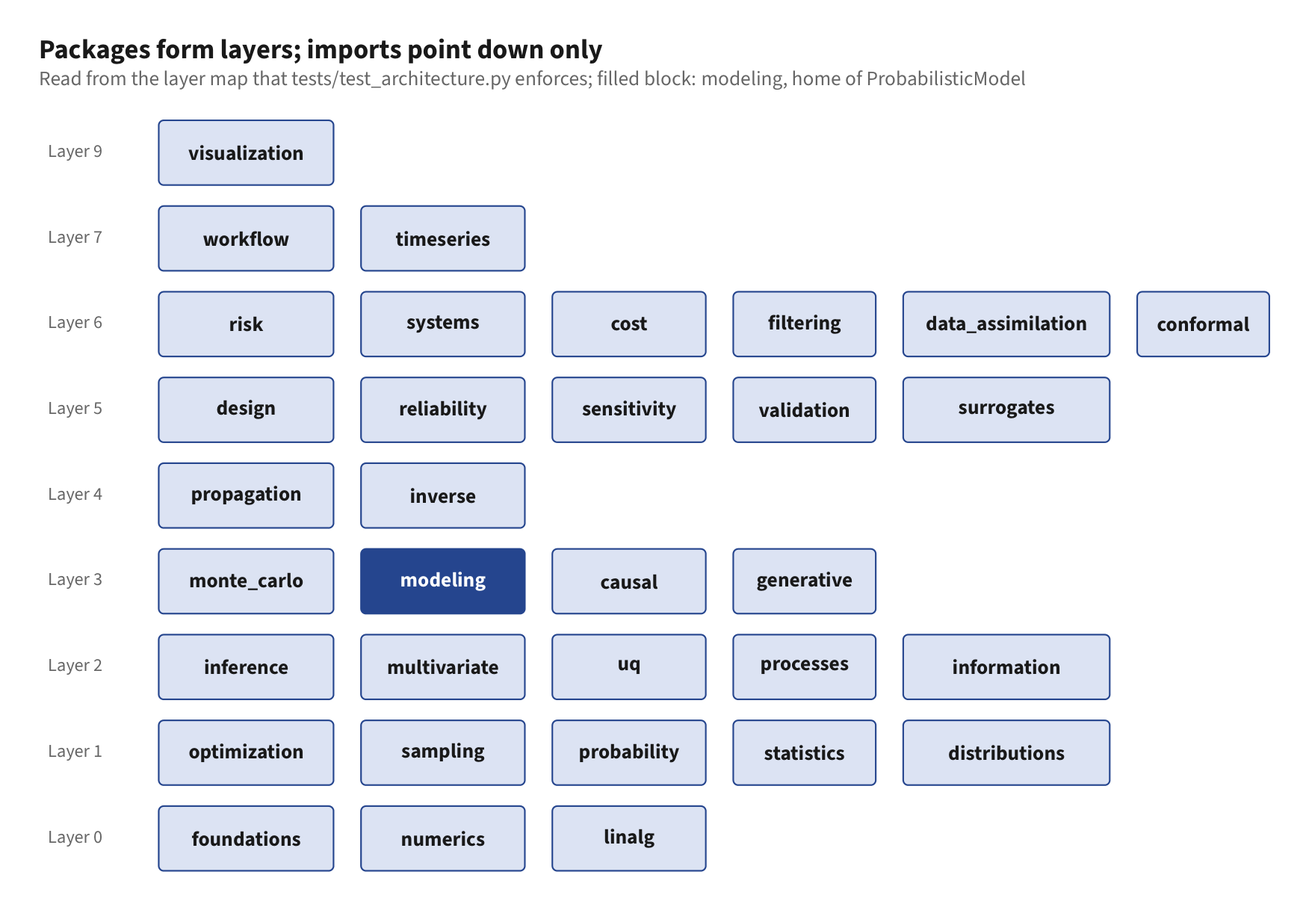
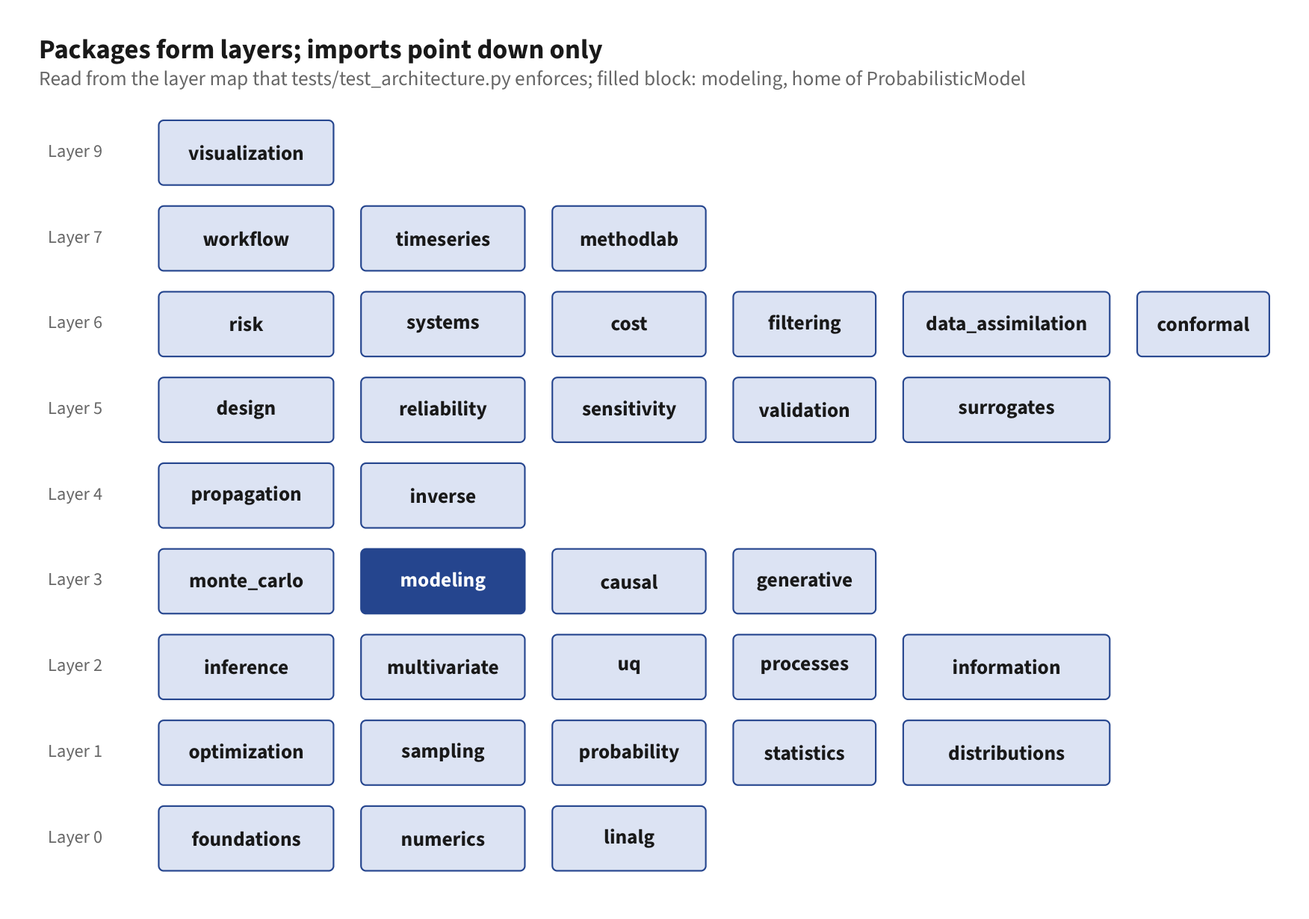
docs: correct stale statements in guides, architecture, ADRs and README; record the batch evaluation contract
Scope the old not-implemented statements to the packages they describe,
list the same-layer imports found by an import scan, add cost to the
architecture tables, record the batch contract in the changelog, roadmap
and README, redraw the layer map with methodlab, and rebuild the one guide
figure that had not been through the datawiz audit.

Changed region(s): [[0.4007, 0.2163, 0.5548, 0.3089]]

diff --git a/src/probstat/probability/finite.py b/src/probstat/probability/finite.py
@@ -735,9 +735,10 @@ class FiniteProbabilityMeasure(Generic[OutcomeT]):
     def expectation(self, value: Callable[[OutcomeT], float]) -> float:
         """Return the expectation of a finite real-valued outcome function.
 
-        This bridge treats ``value`` as a finite random variable without yet
-        introducing a separate random-variable object. A dedicated abstraction
-        is planned for the next probability-foundation round.
+        This method treats ``value`` as a finite random variable without
+        introducing a separate random-variable object. The dedicated
+        abstraction is
+        :class:`probstat.probability.random_variables.FiniteRandomVariable`.
 
         Args:
             value: Function mapping every outcome to a finite real number.

diff --git a/src/probstat/workflow/__init__.py b/src/probstat/workflow/__init__.py
@@ -1,8 +1,9 @@
 """Integrated studies: UQ on one probabilistic model, and mission assessment.
 
-:class:`UQStudy` runs every UQ stage on one :class:`ProbabilisticModel`;
-:class:`MissionAssessment` combines exact system reliability, epistemic
-uncertainty, cost, and risk for a mission system.
+:class:`UQStudy` runs every UQ stage on one
+:class:`~probstat.modeling.ProbabilisticModel`; :class:`MissionAssessment`
+combines exact system reliability, epistemic uncertainty, cost, and risk for a
+mission system.
 
 Main entry points:
     ``UQStudy``: every UQ stage (propagation, sensitivity, reliability,

diff --git a/src/probstat/foundations/__init__.py b/src/probstat/foundations/__init__.py
@@ -2,7 +2,8 @@
 
 Every other package builds on these primitives: argument validators, the
 structural protocols that distribution and law objects satisfy, the
-SplitMix64 seed tree behind every ``seed=`` argument, and the stability
+SplitMix64 seed tree behind the ``seed=`` arguments that accept a
+``RandomStream``, and the stability
 labels of the public API.
 
 Main entry points:

diff --git a/README.md b/README.md
@@ -88,7 +88,7 @@ one at the precision shown.
 | Decisions | 120+ decision records in [`docs/adr/`](https://github.com/ayberkdt/Stats-Lab/tree/main/docs/adr), each with its verification evidence | [contribution contract](https://github.com/ayberkdt/Stats-Lab/blob/main/CONTRIBUTING.md) |
 | Documentation | 60+ Markdown files whose Python examples run, with quoted values compared | [`tests/test_documentation_examples.py`](https://github.com/ayberkdt/Stats-Lab/blob/main/tests/test_documentation_examples.py) |
 | Properties | 80+ property-based and metamorphic tests, drawing random valid parameters for every distribution family | [`tests/_properties.py`](https://github.com/ayberkdt/Stats-Lab/blob/main/tests/_properties.py) |
-| Figures | text of at least 9 pt inside the canvas; WCAG AA contrast of 4.5:1 for text and 3:1 for marks; 108 guide figures in two palettes, 107 of them passed through the datawiz audit (the newest was built where datawiz is not installed and awaits it), with captions that quote the numbers of the build | [canvas](https://github.com/ayberkdt/Stats-Lab/blob/main/tests/test_figure_canvas.py), [contrast](https://github.com/ayberkdt/Stats-Lab/blob/main/tests/test_visualization_accessibility.py), and [guide-figure](https://github.com/ayberkdt/Stats-Lab/blob/main/tests/test_guide_figures.py) tests |
+| Figures | text of at least 9 pt inside the canvas; WCAG AA contrast of 4.5:1 for text and 3:1 for marks; 108 guide figures in two palettes, all passed through the datawiz audit, with captions that quote the numbers of the build | [canvas](https://github.com/ayberkdt/Stats-Lab/blob/main/tests/test_figure_canvas.py), [contrast](https://github.com/ayberkdt/Stats-Lab/blob/main/tests/test_visualization_accessibility.py), and [guide-figure](https://github.com/ayberkdt/Stats-Lab/blob/main/tests/test_guide_figures.py) tests |
 | Agreement with R | 155 cases checked against R 4.6.2 (stats, MASS, nlme, survival, fitdistrplus, ismev, e1071): distribution functions, classical tests, lm/glm/nls/lme, survival, time series, fits; each with the exact R call and a justified tolerance | [`tests/test_r_parity.py`](https://github.com/ayberkdt/Stats-Lab/blob/main/tests/test_r_parity.py), regenerated by [`tools/r_oracles/parity.R`](https://github.com/ayberkdt/Stats-Lab/blob/main/tools/r_oracles/parity.R) |
 | Packaging | the built wheel passes `twine check --strict`, installs in a clean environment, and passes a smoke test | [`tools/smoke_test_wheel.py`](https://github.com/ayberkdt/Stats-Lab/blob/main/tools/smoke_test_wheel.py) |
 
@@ -178,7 +178,7 @@ round(fit.degrees_of_freedom[0], 3)                           # 5.0, Satterthwai
 
 | Question | Tools (`probstat.inference` unless noted) |
 |---|---|
-| Which law for an uncertain input? | Expert bounds and moments only: `maximum_entropy` (`probstat.distributions`); some data: `fit_distribution` (likelihood) and `fit_distribution_moments` (moments, matching R's fitdistrplus), Kolmogorov-Smirnov and Anderson-Darling tests with p-values, `bootstrap_goodness_of_fit` when parameters were fitted, `parameter_uncertainty_band`; many data: `select_kde_bandwidth` (leave-one-out, UCV, BCV) and `gaussian_kde_multivariate` (`probstat.statistics`) |
+| Which law for an uncertain input? | Expert bounds and moments only: `maximum_entropy` (`probstat.distributions`); some data: `fit_distribution` (likelihood) and `fit_distribution_moments` (moments, matching R's fitdistrplus), Kolmogorov-Smirnov and Anderson-Darling tests with p-values, `bootstrap_goodness_of_fit` when parameters were fitted, `parameter_uncertainty_band`; many data: `select_kde_bandwidth` (leave-one-out, UCV, BCV) and `gaussian_kde_multivariate` (both in `probstat.statistics`) |
 | Is there an effect, and how sure are we? | t, Welch, paired, sign, Wilcoxon, Mann-Whitney, Fisher exact, permutation tests; bootstrap with BCa intervals; `adjust_p_values` (Holm, Benjamini-Hochberg) |
 | Do groups differ? | Tukey HSD on the exact studentized range, Kruskal-Wallis (exact for small designs), Friedman, Cochran's Q, Dunn; Levene, Brown-Forsythe, Bartlett; Shapiro-Wilk |
 | How does a response depend on predictors? | `fit_linear_model`, `fit_glm` (Gaussian, binomial with logit or probit link, Poisson, Gamma), ridge and cross-validated elastic net, `fit_robust_linear_model` (Huber, biweight), `theil_sen_slope`, exact `fit_quantile_regression` |
@@ -303,29 +303,27 @@ confidence, a credibility statement.
 
 ## What's inside: 34 packages in 9 dependency layers
 
-<picture><source media="(prefers-color-scheme: dark)" srcset="https://raw.githubusercontent.com/ayberkdt/Stats-Lab/main/docs/images/readme-package-layers-dark.png"><img alt="Package layer map: visualization on top; workflow and timeseries; risk, systems, cost, filtering, data_assimilation, conformal; design, reliability, sensitivity, validation, surrogates; propagation, inverse; monte_carlo, modeling, causal, generative; inference, multivariate, uq, processes, information; optimization, sampling, probability, statistics, distributions; foundations, numerics, linalg at the bottom." src="https://raw.githubusercontent.com/ayberkdt/Stats-Lab/main/docs/images/readme-package-layers.png"></picture>
+<picture><source media="(prefers-color-scheme: dark)" srcset="https://raw.githubusercontent.com/ayberkdt/Stats-Lab/main/docs/images/readme-package-layers-dark.png"><img alt="Package layer map: visualization on top; workflow, timeseries, and methodlab; risk, systems, cost, filtering, data_assimilation, conformal; design, reliability, sensitivity, validation, surrogates; propagation, inverse; monte_carlo, modeling, causal, generative; inference, multivariate, uq, processes, information; optimization, sampling, probability, statistics, distributions; foundations, numerics, linalg at the bottom." src="https://raw.githubusercontent.com/ayberkdt/Stats-Lab/main/docs/images/readme-package-layers.png"></picture>
 
 A package imports only from its own layer or a lower one, and the
 architecture test rejects every upward import and import cycle. The diagram
 is generated from that test's layer map by
 [`tools/build_readme_figures.py`](https://github.com/ayberkdt/Stats-Lab/blob/main/tools/build_readme_figures.py).
-`methodlab`, added in 0.27 on the layer of `workflow`, is recorded in the
-layer map but not yet drawn: the image is from the previous build.
 34 packages and 2,434 public names, all documented in the
 [API reference](https://github.com/ayberkdt/Stats-Lab/blob/main/docs/api-reference.md).
 
 | Area | Packages | Highlights |
 |---|---|---|
 | Central model and forward | `modeling`, `propagation`, `sampling`, `monte_carlo`, `sensitivity`, `surrogates` | Gaussian, Student-t, Clayton, Gumbel, and Frank copulas, C- and D-vine copulas with sequential fitting, discrete and interval (epistemic) inputs, random fields; nested aleatory-epistemic propagation and p-boxes; Sobol (to 1,024 dimensions, Owen scrambling), Halton, maximin and Iman-Conover LHS; zero-variance control variates, control functionals, and kernel Stein discrepancy; Sobol (six estimators, including stochastic simulators), Shapley, Morris, DGSM, Taylor importance factors, regression (SRC, PRCC) and HSIC indices; polynomial chaos (sparse by LAR or OMP), Gaussian processes, universal kriging, PC-Kriging, and deep ensembles |
-| Reliability and risk | `reliability`, `risk`, `systems` | FORM/SORM, multiple design points, importance, subset (modified Metropolis, aCS, and HMC kernels), line and directional sampling, moving particles, AK-MCS (U, EFF, H) and AK-SS, Wilks bounds and Monte Carlo certification; exact system reliability on BDDs with sifting, dynamic fault trees (PAND, SPARE, FDEP, SEQ), CCF with epistemic parameters, phased missions, Markov and semi-Markov availability; VaR/CVaR, fault and event trees, fragility, GEV/GPD return levels, risk registers, FMECA, value of information |
+| Reliability and risk | `reliability`, `risk`, `systems` | FORM/SORM, multiple design points, importance, subset (modified Metropolis, aCS, and HMC kernels), line and directional sampling, moving particles, AK-MCS (U, EFF, H) and AK-SS, Wilks bounds and Monte Carlo certification; exact system reliability on BDDs with sifting, dynamic fault trees (PAND, SPARE, FDEP, SEQ), CCF with epistemic parameters, phased missions, Markov and semi-Markov availability; VaR/CVaR, fault and event trees, fragility, GEV/GPD return levels, risk registers, FMECA, value of information, Beta-Bernoulli and linear Thompson-sampling bandits |
 | Method development | `methodlab` | Estimator combinators with a derivation lineage (randomized truncation, thinning, extrapolation, best linear unbiased combination, control variates, bias corrections, influence functions), certification checks with scoped verdicts and method cards, pre-specified ADEMP simulation studies with a protocol fingerprint, efficiency ranking, sequential halving, anytime-valid comparison |
 | Cost | `cost` | Discounting, life-cycle cost models, cost-risk S-curves and JCL, learning curves, maintenance optimisation, spares, cost of unreliability |
 | Backward and validation | `inverse`, `inference`, `validation` | Nonlinear calibration, model discrepancy, adaptive Metropolis, HMC/NUTS, ADVI, a probabilistic-programming interface with reverse-mode gradients, structured (simplex, correlation, covariance) latent sites, marginalized discrete sites, Markov-chain elimination, and dynamic structure, amortized posteriors; stacking and pseudo-BMA model weights; area metric, ASME V&V 20, CRPS and proper scores, PIT, distribution-shift tests |
-| Statistical modelling | `inference`, `timeseries`, `conformal` | Regression and GLMs, regularization, hierarchical models, EM and mixtures, missing data and multiple imputation, ARIMA, survival, conformal prediction (split and adaptive under shift), Thompson-sampling bandits |
+| Statistical modelling | `inference`, `timeseries`, `conformal` | Regression and GLMs, regularization, hierarchical models, EM and mixtures, missing data and multiple imputation, ARIMA, survival, conformal prediction (split and adaptive under shift) |
 | Generative models | `generative` | Planar, radial, and affine-coupling normalizing flows; energy-based models by score matching; Langevin (ULA, MALA) sampling; normalizing-constant and KL diagnostics |
 | Decisions | `causal`, `design` | Back-door and front-door identification, IPW/AIPW, E-values; D-optimal and Bayesian experimental design |
 | Probability and statistics | `probability`, `distributions`, `statistics`, `multivariate`, `processes`, `information` | 29 distribution families plus affine, truncated, mixture, and empirical wrappers and maximum-entropy laws built from moment constraints; Dirichlet, multinomial, Dirichlet-multinomial, multivariate Student-t, Wishart, and inverse-Wishart laws with conjugate updates; LKJ correlation laws; finite measure spaces, Radon-Nikodym derivatives, conditional expectation, and completeness checks; calibrated goodness of fit and count models with five historical real-data case studies; tests and bootstrap, kernel density, streaming summaries, limit theorems, contingency tables, stochastic and semi-Markov processes, score-based diffusion and neural SDEs, entropy, optimal transport |
-| Foundations and dynamics | `foundations`, `linalg`, `optimization`, `numerics`, `filtering`, `data_assimilation`, `uq`, `workflow`, `visualization` | Dense linear algebra, optimizers with bounds and multi-start, forward- and reverse-mode automatic differentiation, adaptive quadrature; an optional NumPy dense backend; a multiple-precision reference backend and performance profiles; Kalman, particle, and ensemble filters; the `UQStudy` workflow and the accessible themed figure library |
+| Foundations and dynamics | `foundations`, `linalg`, `optimization`, `numerics`, `filtering`, `data_assimilation`, `uq`, `workflow`, `visualization` | Dense linear algebra, optimizers with bounds and multi-start, forward- and reverse-mode automatic differentiation, adaptive quadrature; an optional NumPy dense backend; a multiple-precision reference backend and performance profiles; Kalman, particle, and ensemble filters; the `UQStudy` workflow and the accessible themed figure library; a batch evaluation contract (`EvaluationRequest`, `run_procedure`, `AskTellSession`) that lets an adaptive algorithm request whole batches of points from a simulator it does not own |
 
 The [ATHENS 2026 coverage matrix](https://github.com/ayberkdt/Stats-Lab/blob/main/docs/curriculum/athens-2026-coverage.md)
 tracks all 110 topics of the ATHENS 2026 VV-UQ course; all 110 are

diff --git a/docs/architecture.md b/docs/architecture.md
@@ -15,30 +15,32 @@ cycles.
 | 3 | `monte_carlo`, `modeling`, `causal`, `generative` | estimators and work accounting; **the central `ProbabilisticModel`**; causal graphs and effect estimation; normalizing flows and energy-based models |
 | 4 | `propagation`, `inverse` | forward propagation; calibration (with model discrepancy) and posterior prediction |
 | 5 | `reliability`, `sensitivity`, `surrogates`, `validation`, `design` | failure probability, sensitivity indices, emulators, validation evidence, experimental design |
-| 6 | `risk`, `systems`, `filtering`, `data_assimilation`, `conformal` | risk measures, extremes, and decision analysis; exact system reliability on BDDs; sequential state estimation; conformal prediction |
+| 6 | `risk`, `systems`, `cost`, `filtering`, `data_assimilation`, `conformal` | risk measures, extremes, and decision analysis; exact system reliability on BDDs; life-cycle cost, cost-risk and schedule-risk analysis; sequential state estimation; conformal prediction |
 | 7 | `workflow`, `timeseries`, `methodlab` | `UQStudy`: every analysis on one model, one seed tree, one report; ARIMA models on the Kalman filter; estimator combinators, certification checks, and pre-specified simulation studies |
 | 9 | `visualization` | optional themed figures (Matplotlib) |
 
 ```text
-                         visualization (9)
-                               |
-                          workflow (7)
-              _________________|__________________
-             |                 |                  |
-          risk (6)      filtering (6)   data_assimilation (6)
-             |
-   reliability · sensitivity · surrogates · validation   (5)
-             |                                  |
-       propagation (4) ----------------- inverse (4)
-             |                                  |
-          modeling (3)  <-- the central model  -+--- monte_carlo (3)
-             |
-   inference · multivariate · uq                  (2)
-             |
-   probability · statistics · distributions · optimization · sampling   (1)
-             |
-   foundations · numerics · linalg               (0)
+   (9)  visualization
+         |
+   (7)  workflow · timeseries · methodlab
+         |
+   (6)  risk · systems · cost · filtering · data_assimilation · conformal
+         |
+   (5)  reliability · sensitivity · surrogates · validation · design
+         |
+   (4)  propagation · inverse
+         |
+   (3)  modeling (the central model) · monte_carlo · causal · generative
+         |
+   (2)  inference · multivariate · uq · processes · information
+         |
+   (1)  probability · statistics · distributions · optimization · sampling
+         |
+   (0)  foundations · numerics · linalg
 ```
+
+The diagram lists every package once, on its layer; the arrows mean "may
+import from", not "imports from". Layer 8 is unused.
 
 `probstat.__init__` exposes version metadata only. This keeps domain ownership
 visible and avoids a root import hub that could become a cycle.
@@ -81,7 +83,7 @@ Carlo, LHS, Halton, Sobol). See ADR-0014 and
 | `distributions` | Distribution objects, special functions, sampling | Rendering |
 | `inference` | Estimation, tests, regression and GLMs, smoothing and additive models, multivariate analysis and clustering, survival, EM and mixtures, hierarchical models, MCMC/HMC/NUTS, ADVI, Laplace | Forward-model semantics |
 | `multivariate` | Vector-valued distributions | Inference workflows |
-| `uq` | QoI and forward-model contracts, numerical verification | Monte Carlo, reliability, inference |
+| `uq` | QoI and forward-model contracts, numerical verification, uncertainty budgets (including the Monte Carlo budgets `monte_carlo_budget` and `adaptive_monte_carlo_budget`, ADR-0133) | The general estimators and variance reduction of `monte_carlo`, reliability, inference |
 | `processes` | Markov chains, Poisson processes, SDEs, random fields | Filtering or inference |
 | `information` | Entropy, divergences, mutual information and their estimators, optimal transport, Fisher information geometry | Hypothesis tests |
 | `monte_carlo` | Sample estimators, variance reduction, work accounting | Forward-model semantics |
@@ -97,6 +99,7 @@ Carlo, LHS, Halton, Sobol). See ADR-0014 and
 | `design` | Optimal and Bayesian experimental design | Calibration itself |
 | `risk` | Risk measures, losses, fault/event trees, fragility, extremes, decisions | Reliability algorithms |
 | `systems` | Structure functions on BDDs, cut sets, importance, CCF, component time models, MTTF, phased missions | Sampling-based reliability; nothing in `risk` imports it |
+| `cost` | Discounting, life-cycle cost models, cost-risk S-curves, schedule-risk networks, joint cost-schedule confidence | Risk measures and decision analysis (`risk`) |
 | `conformal` | Distribution-free prediction intervals and coverage reports | Model fitting |
 | `filtering`, `data_assimilation` | State-space models, Kalman/EKF/UKF, particle filter, EnKF, 3D-Var | Plotting |
 | `workflow` | Orchestration, stage records, reports | New numerical methods |
@@ -111,12 +114,33 @@ survival, quantile, inverse-survival, and hazard are narrow capabilities that a
 type implements only when they are mathematically defined and numerically
 supported.
 
-Sibling packages in one layer may import each other only when that does not
-create a cycle and an ADR justifies it; the default is that they do not. The one
-justified case so far: `reliability.active_learning` (AK-MCS), and with it
-`reliability.ak_subset` (AK-SS) and `reliability.population_posterior`, import
-`surrogates` for their Gaussian-process limit state (ADR-0041); `surrogates`
-must therefore never import `reliability`.
+The architecture test enforces two things: no import points to a higher
+layer, and the module graph has no cycle. It reads absolute `probstat`
+imports. It has no allow-list, so a sibling import inside one layer passes as
+long as it stays acyclic; the default is still that siblings do not import
+each other, and a decision record should say why when they do.
+
+A scan of the import statements finds these same-layer imports between
+packages (importer to imported):
+
+- layer 0: `linalg` and `numerics` import the validation helpers of
+  `foundations`;
+- layer 1: `distributions` to `optimization`, `probability` to
+  `distributions`, `sampling` to `distributions`, `statistics` to
+  `distributions` and to `optimization`;
+- layer 2: `inference` to `information` and to `multivariate`;
+- layer 5: `reliability` to `surrogates` (the Gaussian-process limit state of
+  `active_learning`, `ak_subset` and `population_posterior`, ADR-0041) and
+  `design` to `surrogates` (`design.bayesian_optimization`, ADR-0125 item 8);
+  `surrogates` must therefore never import `reliability` or `design`;
+- layer 6: `cost` to `risk` (listed among the imports of ADR-0143) and
+  `systems` to `risk` (`from_fault_tree`, ADR-0060; `risk` never imports
+  `systems`).
+
+ADR-0127 records the `statistics` to `optimization` import. The others have no
+dedicated record. In particular ADR-0020 states the intent that
+`distributions` should not couple to `optimization`, while
+`distributions.maximum_entropy` imports it today.
 Cross-cutting code moves down only when it is truly domain-independent.
 
 ## Module layout

diff --git a/docs/foundations/advanced-monte-carlo.md b/docs/foundations/advanced-monte-carlo.md
@@ -112,8 +112,12 @@ experiment contrasts raw-indicator and conditional Monte Carlo estimators.
 - Confidence intervals are large-sample normal approximations.
 - Automatic control fitting uses the same sample and reports a plug-in error.
 - Stratification is presently one-dimensional with equal-width strata.
-- Importance sampling is ordinary rather than self-normalized; adaptive and
-  multiple importance sampling are not yet implemented.
+- Importance sampling in `probstat.monte_carlo` is ordinary rather than
+  self-normalized, and its scalar estimators have no adaptive or multiple
+  importance sampling. The adaptive and mixture proposals live in
+  `probstat.reliability` (`cross_entropy_importance_sampling`,
+  `improved_cross_entropy`, `sequential_importance_sampling`,
+  `mixture_importance_sampling`).
 - These scalar estimators draw plain pseudo-random points. Latin hypercube
   and randomized quasi-Monte Carlo designs live in `probstat.sampling` and
   are used through `propagation.propagate` (with `replicates=` for honest
@@ -122,8 +126,10 @@ experiment contrasts raw-indicator and conditional Monte Carlo estimators.
   Multilevel Monte Carlo and Stein control variates and control functionals
   are covered in the sections below.
 
-The next ATHENS slice builds reliability and rare-event analysis on these
-auditable probability, cost, and importance-weight foundations.
+Reliability and rare-event analysis are built on these auditable probability,
+cost, and importance-weight foundations in `probstat.reliability`; see the
+[reliability guide](reliability-analysis.md) and the
+[advanced reliability guide](advanced-reliability.md).
 
 ## Sources
 
@@ -216,7 +222,11 @@ seed=1)` (the sampler is `GeometricBrownianMotion` in
   random; Giles' flooring of `m_l` and `V_l` (at half the value extrapolated
   from level `l - 1`) is applied to keep it stable.
 - Cost is the user's model `c(l)`, not wall-clock time.
-- Multi-index MC, randomized (unbiased) MLMC, and MLQMC are not implemented.
+- `probstat.monte_carlo` does not implement multi-index MC, randomized
+  (unbiased) MLMC, or MLQMC. The generic randomized-truncation estimators of
+  `probstat.methodlab` (`single_term_estimator`, `coupled_sum_estimator`)
+  build unbiased estimators from a sequence of coupled approximations; the
+  [method-development guide](method-development.md) describes them.
 
 Sources: [REF-GILES-2008], [REF-GILES-2015].
 

diff --git a/CHANGELOG.md b/CHANGELOG.md
@@ -9,12 +9,25 @@ Uncertainty analysis for system design. The methods of earlier releases
 answer "what is the distribution of the output"; a design review asks
 "which error sources make up the budget, what is the margin and with what
 confidence, and how far can the model be trusted". Eight additions state
-the results in those terms. Each records in its decision record which
+the results in those terms, and a ninth defines how an algorithm asks for
+evaluations of a model it does not own. Each records in its decision record which
 sources were opened and which were confirmed bibliographically only, with
 the mathematics re-derived.
 
 ### Added
 
+- **Batch evaluation contract** (`probstat.foundations`, ADR-0132): an
+  algorithm written as a procedure yields an `EvaluationRequest` (many points
+  and the label of the model that must evaluate them) and receives the
+  outputs in the same order. `run_procedure` drives it with one batch
+  callable per label, `AskTellSession` drives it by hand when the batch is
+  evaluated outside the Python process, and `batch_from_pointwise` wraps an
+  ordinary function of one point; `scalar_outputs` and `vector_outputs` check
+  duck-typed outputs, so a NumPy array is accepted without importing NumPy.
+  The three routes give identical results. Two procedures use it so far,
+  `adaptive_monte_carlo_budget_procedure` and
+  `propagate_gaussian_mixture_procedure`; there is no batch form of the
+  rare-event estimators or the pick-freeze designs.
 - **Uncertainty budgets** (`probstat.uq`, ADR-0133): `BudgetEntry` with
   Type A and Type B evaluations, `UncertaintyBudget` with the law of
   propagation including correlation, Welch-Satterthwaite degrees of freedom
@@ -74,6 +87,13 @@ the mathematics re-derived.
   estimate with its merge bias shown, `simulate_schedule` with correlated
   durations, risk events, criticality and cruciality, and
   `joint_cost_schedule_confidence` with the iso-confidence frontier.
+
+### Changed
+
+- The guide-figure audit is complete: all 108 figures have passed through the
+  datawiz audit. `methodlab-thinning-efficiency`, built in 0.27.0 where
+  datawiz was not installed, was rebuilt and audited; the README no longer
+  states an open item.
 
 ### Known limitations
 

diff --git a/docs/adr/ADR-0132-batch-evaluation-contract.md b/docs/adr/ADR-0132-batch-evaluation-contract.md
@@ -45,9 +45,11 @@ implementations of each method that must agree.
    runtime rule is unchanged. Non-finite outputs are passed through: what a
    failed run means is the algorithm's decision.
 4. **Placement.** The module lives in `foundations` (layer 0) because
-   `monte_carlo`, `reliability`, `sensitivity` and `propagation` all need
-   it. `foundations` is labelled stable; the batch names are new in 0.28 and
-   follow the deprecation policy of ADR-0048 from this release on.
+   packages on several layers are meant to use it, and a lower layer cannot
+   import a higher one. Its users today are `probstat.uq` and
+   `probstat.filtering`. `foundations` is labelled stable; the batch names
+   are new after 0.27.0 (unreleased) and follow the deprecation policy of
+   ADR-0048 from the release that ships them.
 5. **Rule for new code.** A new algorithm that evaluates a model adaptively
    is written as `<name>_procedure` plus a thin `<name>` wrapper around
    `run_procedure`, issues the largest requests its mathematics permits
@@ -62,10 +64,13 @@ implementations of each method that must agree.
   scheduler through `AskTellSession`.
 - The transport adds a Python-level cost per request, not per point; it is
   negligible next to any simulator worth batching.
-- The 0.27 pointwise algorithms are not rewritten. Batch counterparts are
-  added next to them (ADR-0134 for rare events, ADR-0137 for pick-freeze
-  designs, ADR-0138 for sigma-point propagation); the pointwise functions
-  remain the reference in their tests.
+- The 0.27 pointwise algorithms are not rewritten; the pointwise functions
+  remain the reference in their tests. Two procedures are written against
+  the contract so far: `probstat.uq.adaptive_monte_carlo_budget_procedure`
+  (ADR-0133) and `probstat.filtering.propagate_gaussian_mixture_procedure`
+  (ADR-0140). There is no batch form of the rare-event estimators
+  (`probstat.reliability`) or of the pick-freeze designs
+  (`probstat.sensitivity`); both are not implemented.
 - A generator can be driven only once. A procedure function must be called
   again for a second run; the wrappers do this.
 - The contract says nothing about failures of individual evaluations,

diff --git a/docs/foundations/inverse-problems-and-calibration.md b/docs/foundations/inverse-problems-and-calibration.md
@@ -110,12 +110,12 @@ future-observation bands without hiding their distinct meanings.
 
 ## 8. Scope and next extensions
 
-This release assumes a linear response, a proper positive-definite Gaussian
-prior, known homoscedastic Gaussian noise, and additive independent discrepancy.
-Future work includes unknown variance, nonlinear forward models, robust and
-heteroscedastic likelihoods, MCMC, correlated discrepancy processes,
-experimental design, and formal validation experiments. These limitations are
-model boundaries, not missing footnotes.
+The linear-Gaussian calibration of this guide (`calibrate_linear_gaussian`)
+assumes a linear response, a proper positive-definite Gaussian prior, known
+homoscedastic Gaussian noise, and additive independent discrepancy. These are
+model boundaries of that function, not missing footnotes. The extensions
+beyond them exist as separate tools, listed in the update below; what is still
+absent is stated at its end.
 
 Update: unknown noise variance (Normal-inverse-gamma and log-sigma sampling),
 nonlinear forward models, Student-t likelihoods, Laplace approximations, and

diff --git a/docs/foundations/nonlinear-calibration-and-mcmc.md b/docs/foundations/nonlinear-calibration-and-mcmc.md
@@ -310,8 +310,9 @@ which the tests check to ten decimals.
   inefficient chain; check ESS.
 - Multimodal posteriors can defeat every diagnostic when no chain starts near
   a mode. Use over-dispersed starts and domain knowledge.
-- Noise is independent across observations, and correlated measurement
-  errors are not implemented. An input-dependent discrepancy process
+- Noise is independent across observations unless an `ErrorCorrelation` is
+  declared (Section 15); correlated errors with heavy tails (a multivariate
+  Student-t) are not implemented. An input-dependent discrepancy process
   (Kennedy-O'Hagan Gaussian process) is not part of `CalibrationProblem`; it
   is provided by `DiscrepancyCalibration` (see
   [model discrepancy](model-discrepancy.md)).

diff --git a/docs/foundations/advanced-reliability.md b/docs/foundations/advanced-reliability.md
@@ -495,7 +495,9 @@ the levels stall on this planar limit state, and a finished run can still be
 far off (seed 1: 0.43 of the exact value). In a trial with `rho = 0.2`, seed 1
 returned 0.73 of the exact value with a reported c.o.v. of 0.04, so the
 reported c.o.v. can understate the error badly. Gaussian-mixture proposals
-[REF-KURTZ-SONG-2013] address multiple failure regions and are not implemented.
+[REF-KURTZ-SONG-2013] address multiple failure regions; they are not offered by
+`cross_entropy_importance_sampling` and are available through
+`improved_cross_entropy(..., family="mixture")`, described below.
 
 The table above shows the unguarded adaptation, still available as
 `covariance_floor=None`. Adapted covariances are now floored at eigenvalue

diff --git a/docs/adr/ADR-0131-method-laboratory.md b/docs/adr/ADR-0131-method-laboratory.md
@@ -135,8 +135,10 @@ that can be mechanized, and one that cannot:
   and the package docstring say so.
 - The guide figure was rendered through `tools/build_guide_figures.py` and
   `theme.fit_text_to_canvas`, but the datawiz audit step could not be run
-  (the toolkit is not available in the build environment used here); it
-  must be re-run where datawiz is installed.
+  (the toolkit is not available in the build environment used here). The
+  audit was run afterwards where datawiz is installed
+  (`tools/build_guide_figures.py --group methodlab`, no errors), which closed
+  this item.
 - Citations were confirmed bibliographically by web search except
   [REF-NIST-FIPS-180-4], which was entered from memory of the standard.
 
